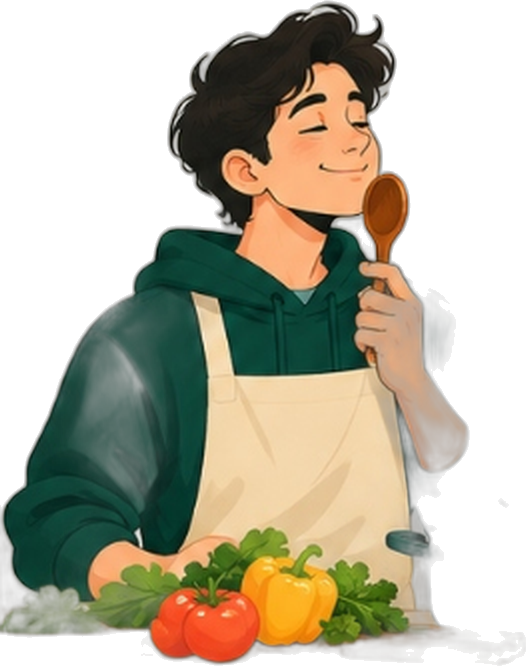
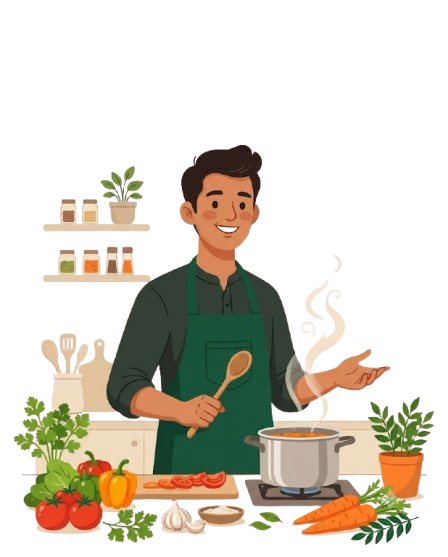
feat(onboarding): scale up illustration size to fill screen naturally and use user transparent assets on-1, on-2, on-3

diff --git a/app/src/app/onboarding.tsx b/app/src/app/onboarding.tsx
@@ -33,7 +33,7 @@ const SLIDES: SlideData[] = [
     titleLine2: 'banega?',
     rayColor: '#F59E0B', // Saffron golden rays
     subtitle: 'Your AI-powered cooking assistant for easy, tasty and healthy meals.',
-    image: require('../../assets/images/onboarding-1.png'),
+    image: require('../../assets/images/on-1.png'),
   },
   {
     id: '2',
@@ -42,7 +42,7 @@ const SLIDES: SlideData[] = [
     titleLine2: 'what you have',
     rayColor: '#10B981', // Fresh herb green rays
     subtitle: "Tell us what's in your pantry, get personalized recipes instantly.",
-    image: require('../../assets/images/onboarding-2.png'),
+    image: require('../../assets/images/on-2.png'),
   },
   {
     id: '3',
@@ -51,7 +51,7 @@ const SLIDES: SlideData[] = [
     titleLine2: 'Get it Delivered.',
     rayColor: '#F59E0B', // Saffron golden rays
     subtitle: 'Save your meals, plan your week and get ingredients from Instamart with one tap.',
-    image: require('../../assets/images/onboarding-3.png'),
+    image: require('../../assets/images/on-3.png'),
   },
 ];
 
@@ -69,7 +69,7 @@ function SparkleRays({ color }: { color: string }) {
 export default function OnboardingScreen() {
   const router = useRouter();
   const { width: windowWidth, height: windowHeight } = useWindowDimensions();
-  const slideWidth = Math.min(windowWidth, 440);
+  const slideWidth = Math.min(windowWidth, 480);
   const setHasCompletedOnboarding = useAppStore((s) => s.setHasCompletedOnboarding);
 
   const [currentIndex, setCurrentIndex] = useState(0);
@@ -224,8 +224,8 @@ export default function OnboardingScreen() {
 
   const isLast = currentIndex === SLIDES.length - 1;
 
-  // Dynamic illustration max height based on available screen height
-  const illustrationMaxHeight = Math.min(windowHeight * 0.44, 360);
+  // Dynamic illustration max height based on available screen height (expanded for prominent presentation)
+  const illustrationMaxHeight = Math.min(windowHeight * 0.50, 440);
 
   return (
     <SafeAreaView style={styles.safeArea}>
@@ -428,7 +428,7 @@ const styles = StyleSheet.create({
   },
   slideItem: {
     flex: 1,
-    paddingHorizontal: 28,
+    paddingHorizontal: 20,
     justifyContent: 'space-between',
   },
   topContentGroup: {
@@ -439,11 +439,11 @@ const styles = StyleSheet.create({
     width: '100%',
     alignItems: 'center',
     justifyContent: 'center',
-    marginBottom: 8,
+    marginBottom: 10,
   },
   screenBrandLogo: {
-    width: 130,
-    height: 70,
+    width: 145,
+    height: 78,
   },
   headingContainer: {
     marginTop: 2,
@@ -503,23 +503,25 @@ const styles = StyleSheet.create({
     fontSize: 15,
     color: '#556358',
     lineHeight: 22,
-    marginTop: 10,
-    maxWidth: 340,
+    marginTop: 8,
+    maxWidth: 360,
   },
   imageContainer: {
     flex: 1,
     alignItems: 'center',
     justifyContent: 'center',
     width: '100%',
-    paddingVertical: 8,
+    paddingVertical: 4,
   },
   imageAnimatedWrapper: {
     width: '100%',
+    height: '100%',
     alignItems: 'center',
     justifyContent: 'center',
   },
   heroIllustration: {
     width: '100%',
+    height: '100%',
   },
   bottomArea: {
     paddingHorizontal: 26,
